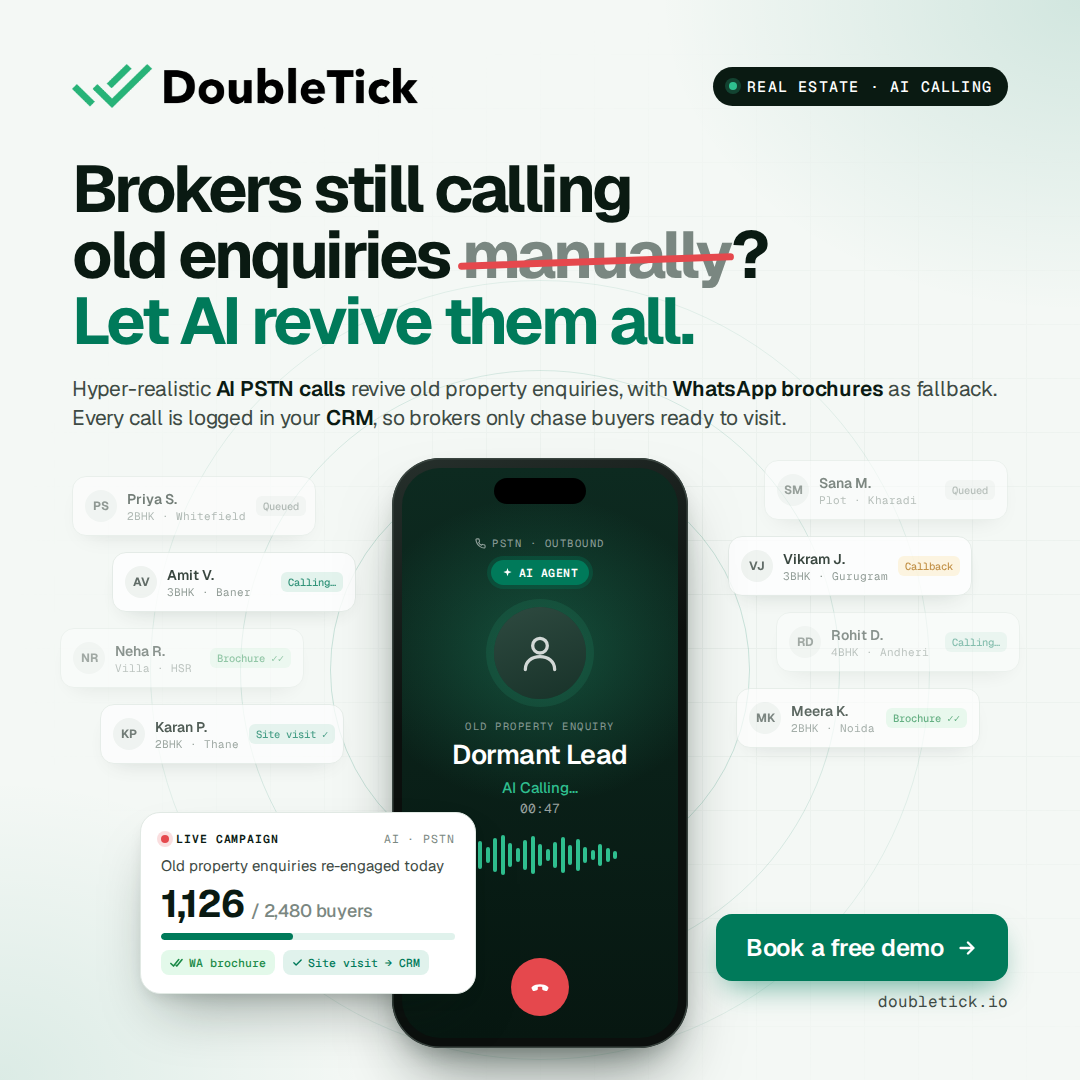
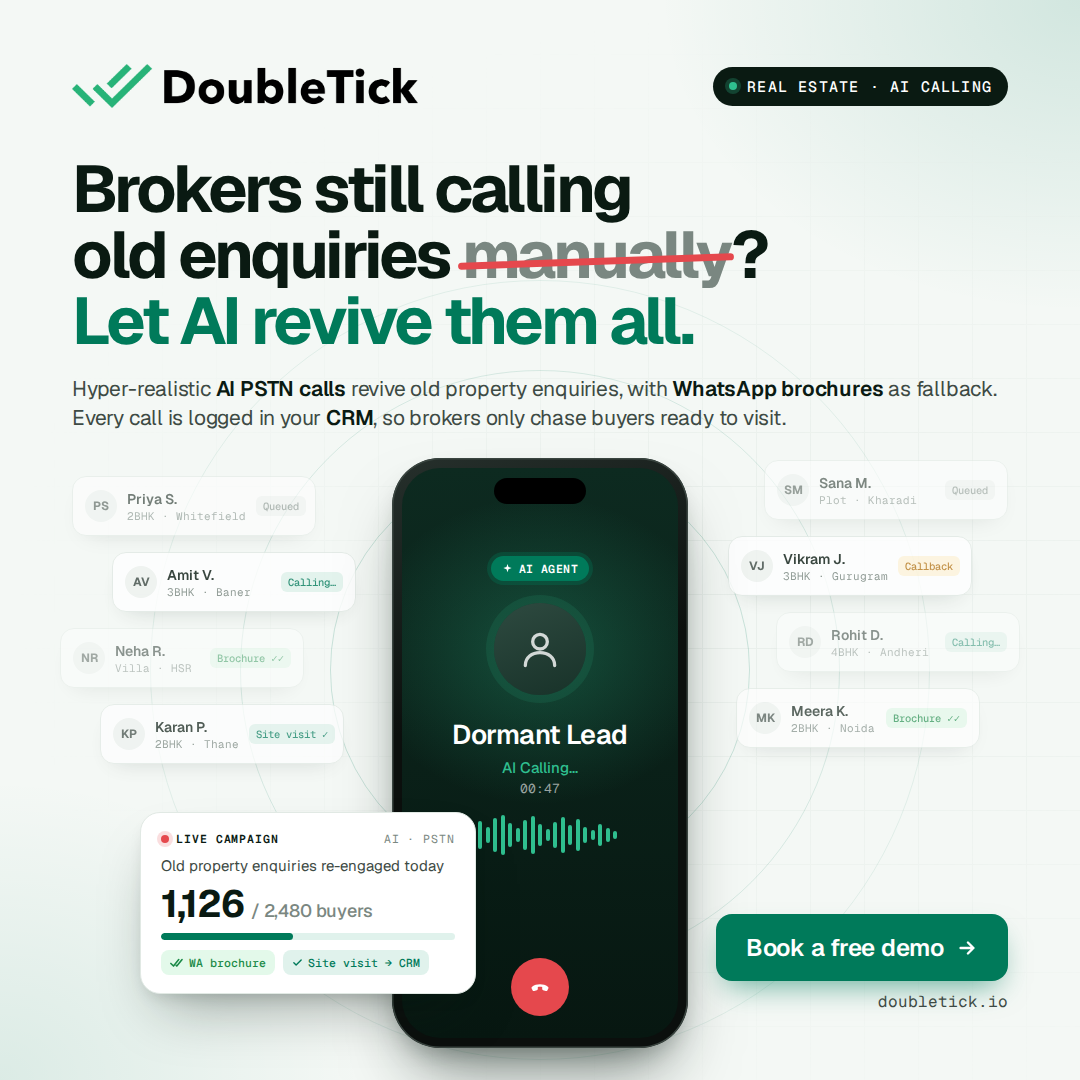
feat: remove enquiry label and PSTN line from real estate phone mockup
Claude-Session: https://claude.ai/code/session_013Hi5o4KgvuLbKTeGkStAKX

Changed region(s): [[0.3972, 0.6417, 0.5806, 0.825], [0.4583, 0.4889, 0.55, 0.55], [0.4889, 0.5806, 0.5194, 0.6111]]

diff --git a/ads/doubletick-ai-calling-real-estate/index.html b/ads/doubletick-ai-calling-real-estate/index.html
@@ -110,10 +110,10 @@
   .island { width: 92px; height: 26px; border-radius: 14px; background: #000; position: absolute; top: 10px; left: 50%; transform: translateX(-50%); }
   .sbar { width: 100%; display: flex; justify-content: space-between; font-size: 12px; font-weight: 600; padding: 0 10px; opacity: .9; }
   .pstn { margin-top: 54px; font-size: 10.5px; letter-spacing: .14em; color: rgba(255,255,255,.55); display: flex; align-items: center; gap: 6px; }
-  .aib { margin-top: 10px; font-size: 11.5px; font-weight: 600; letter-spacing: .04em; background: var(--green); color: #fff; padding: 5px 11px; border-radius: 999px; display: flex; align-items: center; gap: 6px; box-shadow: 0 0 0 4px rgba(0,122,90,.3); }
+  .aib { margin-top: 74px; font-size: 11.5px; font-weight: 600; letter-spacing: .04em; background: var(--green); color: #fff; padding: 5px 11px; border-radius: 999px; display: flex; align-items: center; gap: 6px; box-shadow: 0 0 0 4px rgba(0,122,90,.3); }
   .pav { margin-top: 22px; width: 92px; height: 92px; border-radius: 50%; background: linear-gradient(160deg, #2E4A40, #183229); display: grid; place-items: center; box-shadow: 0 0 0 8px rgba(47,191,143,.12); }
   .olabel { margin-top: 20px; font-size: 10.5px; letter-spacing: .14em; color: rgba(255,255,255,.5); }
-  .pname { margin-top: 4px; font-size: 27px; font-weight: 600; letter-spacing: -0.02em; }
+  .pname { margin-top: 22px; font-size: 27px; font-weight: 600; letter-spacing: -0.02em; }
   .pstat { margin-top: 6px; font-size: 15px; color: var(--green-2); font-weight: 500; }
   .timer { margin-top: 3px; font-size: 13px; color: rgba(255,255,255,.6); }
   .pwave { margin-top: 18px; display: flex; align-items: center; gap: 3.5px; height: 40px; }
@@ -175,10 +175,6 @@
     <div class="phone">
       <div class="screen">
         <div class="island"></div>
-        <div class="pstn mono">
-          <svg width="11" height="11" viewBox="0 0 24 24" fill="none" stroke="currentColor" stroke-width="2.4" stroke-linecap="round" stroke-linejoin="round"><path d="M22 16.9v3a2 2 0 0 1-2.2 2 19.8 19.8 0 0 1-8.6-3.1 19.5 19.5 0 0 1-6-6A19.8 19.8 0 0 1 2.1 4.2 2 2 0 0 1 4.1 2h3a2 2 0 0 1 2 1.7c.1.9.4 1.8.7 2.7a2 2 0 0 1-.5 2.1L8 9.8a16 16 0 0 0 6 6l1.3-1.3a2 2 0 0 1 2.1-.4c.9.3 1.8.6 2.7.7a2 2 0 0 1 1.7 2z"/></svg>
-          PSTN · OUTBOUND
-        </div>
         <div class="aib mono">
           <svg width="11" height="11" viewBox="0 0 24 24" fill="#fff"><path d="M12 2l2.2 6.6L21 11l-6.8 2.4L12 20l-2.2-6.6L3 11l6.8-2.4z"/></svg>
           AI AGENT
@@ -186,7 +182,6 @@
         <div class="pav">
           <svg width="44" height="44" viewBox="0 0 24 24" fill="none" stroke="rgba(255,255,255,.8)" stroke-width="1.8" stroke-linecap="round" stroke-linejoin="round"><circle cx="12" cy="8" r="4"/><path d="M4 21c0-4.4 3.6-7 8-7s8 2.6 8 7"/></svg>
         </div>
-        <div class="olabel mono">OLD PROPERTY ENQUIRY</div>
         <div class="pname">Dormant Lead</div>
         <div class="pstat">AI Calling…</div>
         <div class="timer mono">00:47</div>
